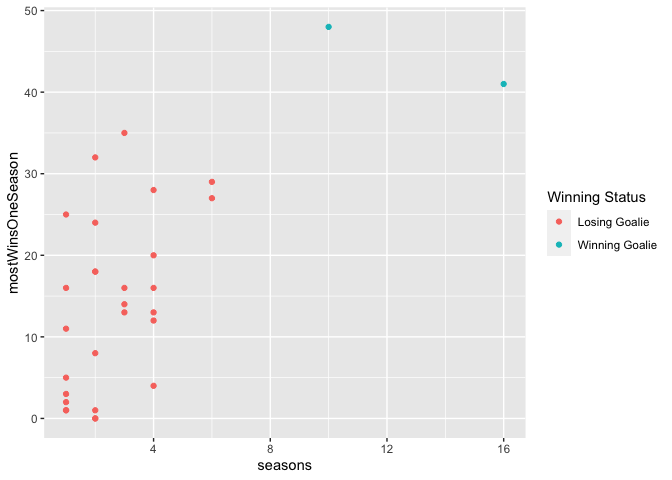
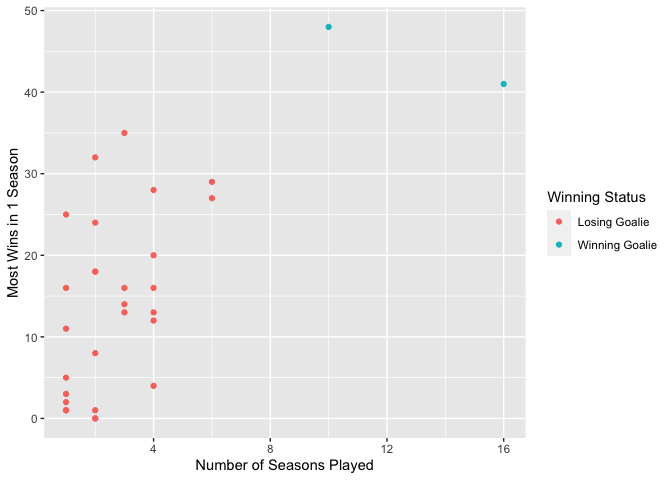
Review2

Changed region(s): [[0.2812, 0.9375, 0.5625, 1.0], [0.0, 0.3125, 0.0312, 0.4688], [0.0, 0.5312, 0.0312, 0.625]]

diff --git a/README.md b/README.md
@@ -475,23 +475,11 @@ Goalies.
 ``` r
 g <- ggplot(goalieData, aes(x=seasons, y=mostWinsOneSeason))
 g + geom_point(aes(color=wins)) +
-  scale_color_discrete(name="Winning Status")
-```
-
-![](README_files/figure-gfm/scatterPlots1-1.png)<!-- -->
-
-``` r
+  scale_color_discrete(name="Winning Status") +
   labs(x="Number of Seasons Played", y="Most Wins in 1 Season")
 ```
 
-    ## $x
-    ## [1] "Number of Seasons Played"
-    ## 
-    ## $y
-    ## [1] "Most Wins in 1 Season"
-    ## 
-    ## attr(,"class")
-    ## [1] "labels"
+![](README_files/figure-gfm/scatterPlots1-1.png)<!-- -->
 
 The following scatter plot shows the relationship between Most Shots
 Against in 1 Game and Most Saves in 1 Game for Active and Non-Active
